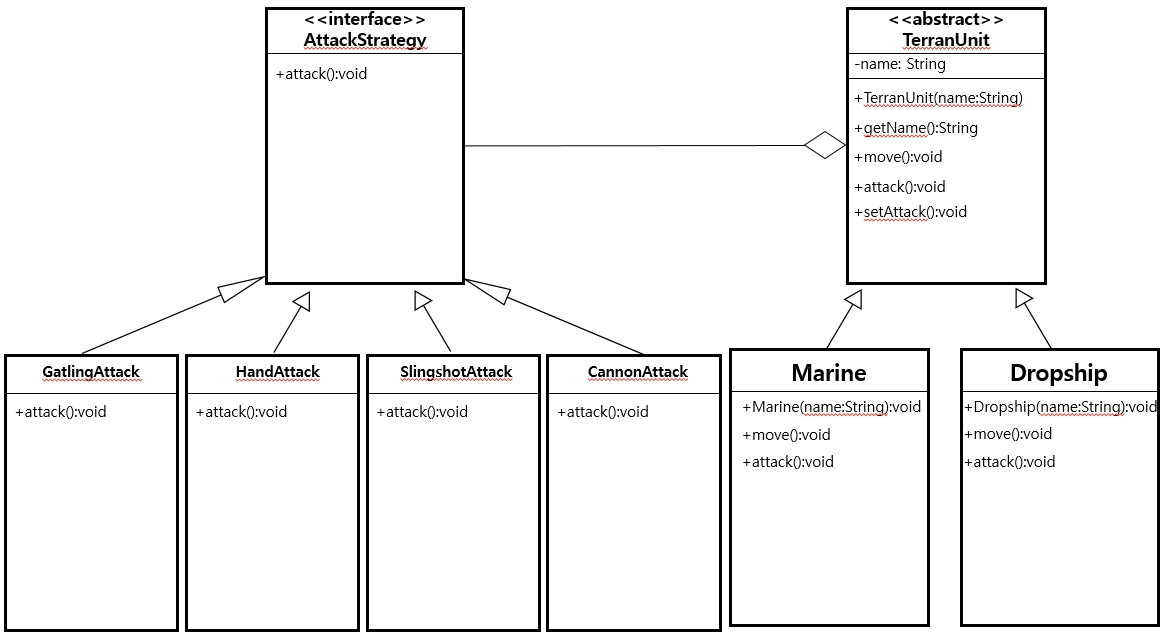
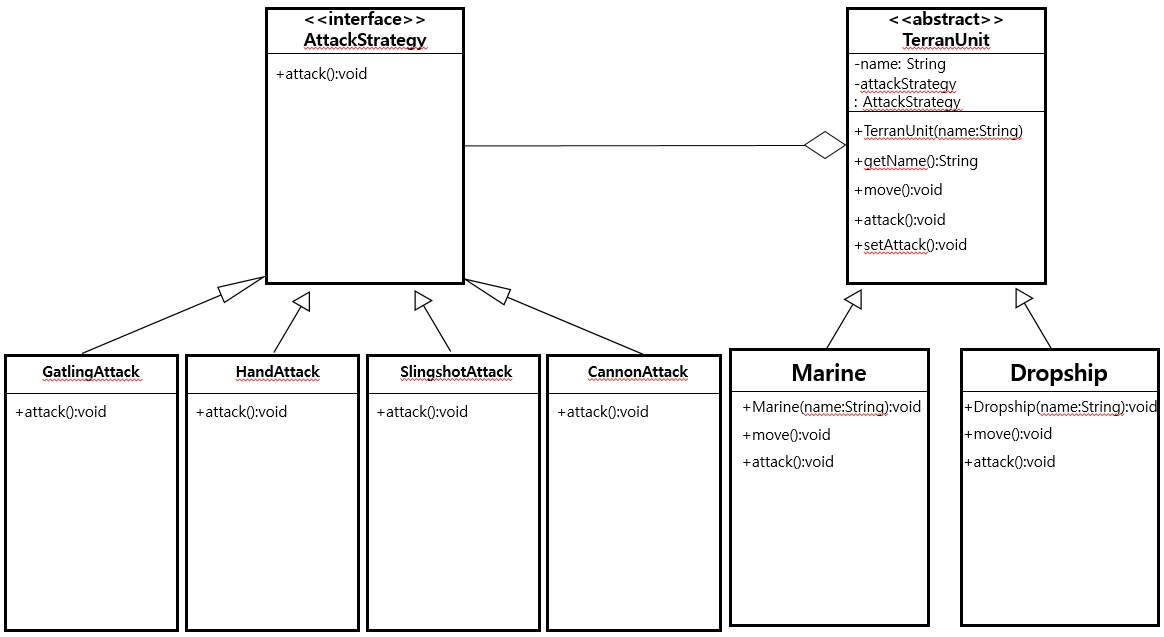
chapter6

diff --git a/docs/디자인 패턴/예제 패턴 살펴보기.md b/docs/디자인 패턴/예제 패턴 살펴보기.md
@@ -270,26 +270,33 @@ class Dropship extends TerranUnit {
 
 ![3차 프로토타입](./prototype3.jpg)
 ```{.java}
-/*2차 프로토타입 - 드랍쉽이 미사일 공격*/
+/*3차 프로토타입 - 마린의 다양한 공격*/
 public class Main {
     public static void main(String[] args) {
-        TerranUnit marine = new Marine("marine1");
-        marine.attack();
-        marine.move();
-
-        TerranUnit dropship = new Dropship("dropship1");
-        dropship.attack();
-        dropship.move();
-
+        TerranUnit marine1 = new Marine("marine1");
+        marine1.move();
+        // 맨손 공격
+        marine1.setAttackStrategy(ATTACK_TYPE.Hand.getAttackStrategy());
+        marine1.attack();
+        // 게틀링 공격
+        marine1.setAttackStrategy(ATTACK_TYPE.Gatling.getAttackStrategy());
+        marine1.attack();
+        // 새총 공격
+        marine1.setAttackStrategy(ATTACK_TYPE.Slingshot.getAttackStrategy());
+        marine1.attack();
+        // 캐논 공격
+        marine1.setAttackStrategy(ATTACK_TYPE.Cannon.getAttackStrategy());
+        marine1.attack();
     }
 }
-
-// 추상클래스
+// 유닛 추상클래스
 abstract class TerranUnit {
     private String name;
+    private AttackStrategy attackStrategy;
 
     public TerranUnit(String name) {
         this.name = name;
+        this.attackStrategy = new GatlingAttack();// 기본값
     }
 
     public String getName() {
@@ -297,7 +304,13 @@ abstract class TerranUnit {
     }
 
     abstract void move();
-    abstract void attack();
+    public void attack() {
+        this.attackStrategy.attack();
+    }
+
+    public void setAttackStrategy(AttackStrategy attackStrategy) {
+        this.attackStrategy = attackStrategy;
+    }
 }
 
 // 마린
@@ -309,10 +322,6 @@ class Marine extends TerranUnit {
     @Override
     public void move() {
         System.out.println(super.getName() + " :: 걸어서 움직입니다.");
-    }
-    @Override
-    public void attack() {
-        System.out.println(super.getName() + " :: 총으로 공격합니다.");
     }
 }
 
@@ -326,13 +335,91 @@ class Dropship extends TerranUnit {
     public void move() {
         System.out.println(super.getName() + " :: 하늘을 날아서 움직입니다.");
     }
+}
+
+// 공격방법 인터페이스
+interface AttackStrategy {
+    void attack();
+}
+
+// 기관총공격
+class GatlingAttack implements AttackStrategy {
     @Override
     public void attack() {
-        System.out.println(super.getName() + " :: 미사일 공격을 합니다.");
+        System.out.println("기관총으로 드르르~ 공격합니다.");
+    }
+}
+
+// 맨손공격
+class HandAttack implements AttackStrategy {
+    @Override
+    public void attack() {
+        System.out.println("맨손으로 퍽퍽 공격합니다.");
+    }
+}
+
+// 새총공격
+class SlingshotAttack implements AttackStrategy {
+    @Override
+    public void attack() {
+        System.out.println("새총으로 틱틱 공격합니다.");
+    }
+}
+
+// 대포공격
+class CannonAttack implements AttackStrategy {
+    @Override
+    public void attack() {
+        System.out.println("대포로 퍼엉~ 공격합니다.");
+    }
+}
+
+// 공격방법을 ENUM으로 정하여 호출
+enum ATTACK_TYPE {
+    Gatling(new GatlingAttack())
+    , Hand(new HandAttack())
+    , Slingshot(new SlingshotAttack())
+    , Cannon(new CannonAttack());
+
+    private AttackStrategy attackStrategy;
+    private ATTACK_TYPE(AttackStrategy attackStrategy) {
+        this.attackStrategy = attackStrategy;
+    }
+
+    public AttackStrategy getAttackStrategy() {
+        return attackStrategy;
+    }
+
+    public void setAttackStrategy(AttackStrategy attackStrategy) {
+        this.attackStrategy = attackStrategy;
     }
 }
 ```
+드디어 끝이났다! 이제는 어떤 새로운 무기를 요구해도 AttackStrategy 인터페이스를 구현하는 새로운 구현체를 만들고, 마린을 생성하는 시점에 공격방법을 정해주면 기존의 객체는 변경하지 않고 유연하게 요구사항에 대처할 수 있다.
 
+마찬가지 방법으로 이동하는 방법도 분류할 수 있다.
+
+#### 스트레티지 패턴 정리
+
+**[등장배경]**
+
+요구사항은 매 순간 변경되는데 이에 대처하는 속도가 현저하게 늦는다. 따라서 새로운 설계 기법이 요구되었고, 행위를 객체로부터 분리하여 자유롭게 변경할 수 있는 스트레티지 패턴이 등장하게 되었다.
+
+**[장점]**
+- 고객의 요구사항에 빠르게 대처할 수 있다.
+- 클라이언트와 독립적으로 알고리즘을 변경할 수 있다.
+- 코드의 분리로 단순한 객체를 만든다.
+
+**[단점]**
+- 공통된 사항을 추상화하는 능력을 요구한다.
+- 거시적인 관점이 필요하다.
+- 프레임워크에는 유용하나, 예제와 같이 고객의 요구사항에 적용하기에는 변수가 많아 도입이 어렵다.
+- 개발 초기에 많은 투자가 되어야 하는 만큼, 초반에 기반을 잡지 못하면 개발 자체를 시작할 수 없다.
+
+**[구현방법]**
+1. 전략의 유연한 변경이 필요한 부분은 추상화하여 관계를 다이어그램을 통해 정리한다.
+2. 정리된 다이어그램을 통해 인터페이스 및 객체간 관계를 설정한다.
+3. 테스트 코드를 통해 목표했던 수준에 도달했는지 검증한다.(사실상 1번 단계에서 스트레티지 패턴은 끝난다.)
 
 ### Q. 템플릿 메서드 패턴은 어떻게 사용하는가?
 
